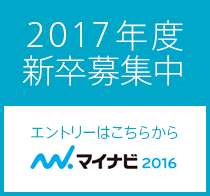
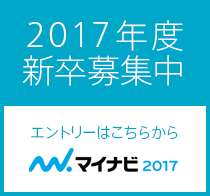
2016を2017に

Changed region(s): [[0.1143, 0.7347, 0.8571, 0.8878]]

diff --git a/bin/recruit.html b/bin/recruit.html
@@ -138,7 +138,7 @@
   <div class="contents">
   <table class="recruitTable">
   <tr><th class="item">応募資格</th><td class="data">
-    <p>【新卒採用】2016年3月 大学院・大学・短大・高等専門学校・専門学校・能力開発校・高校卒業見込みの方</p>
+    <p>【新卒採用】2017年3月 大学院・大学・短大・高等専門学校・専門学校・能力開発校・高校卒業見込みの方</p>
     <p>【中途採用】大学・短大・高等専門学校・専門学校・高校を卒業された方</p>
     </td></tr>
     <tr><th class="item">応募書類</th><td class="data">

diff --git a/release/recruit.html b/release/recruit.html
@@ -138,7 +138,7 @@
   <div class="contents">
   <table class="recruitTable">
   <tr><th class="item">応募資格</th><td class="data">
-    <p>【新卒採用】2016年3月 大学院・大学・短大・高等専門学校・専門学校・能力開発校・高校卒業見込みの方</p>
+    <p>【新卒採用】2017年3月 大学院・大学・短大・高等専門学校・専門学校・能力開発校・高校卒業見込みの方</p>
     <p>【中途採用】大学・短大・高等専門学校・専門学校・高校を卒業された方</p>
     </td></tr>
     <tr><th class="item">応募書類</th><td class="data">
